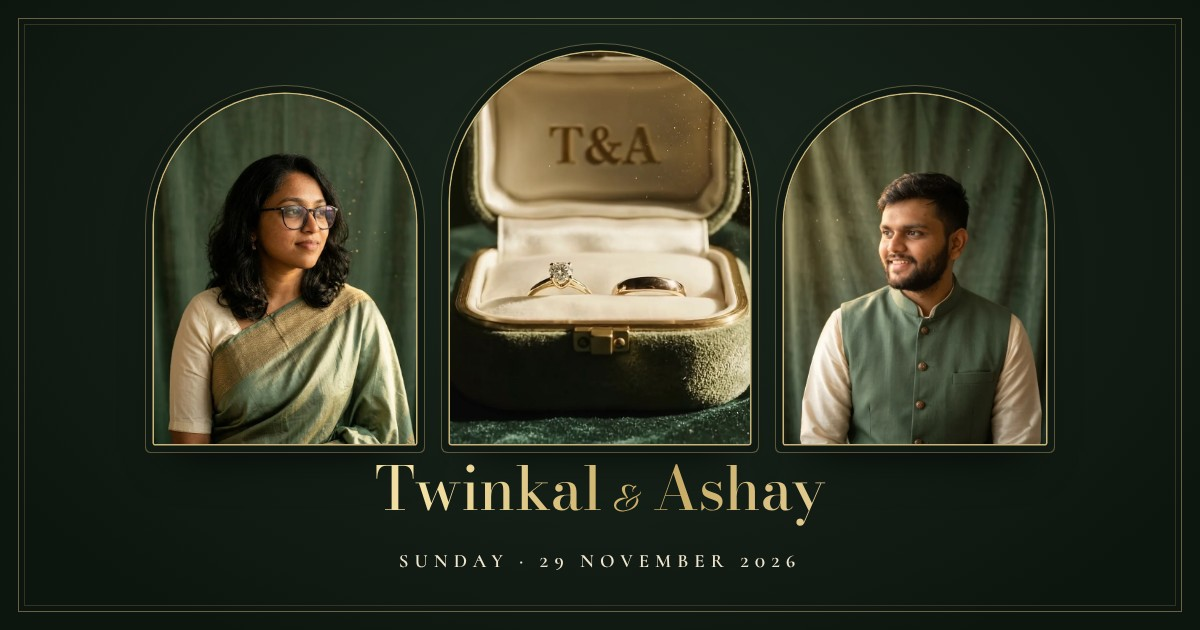
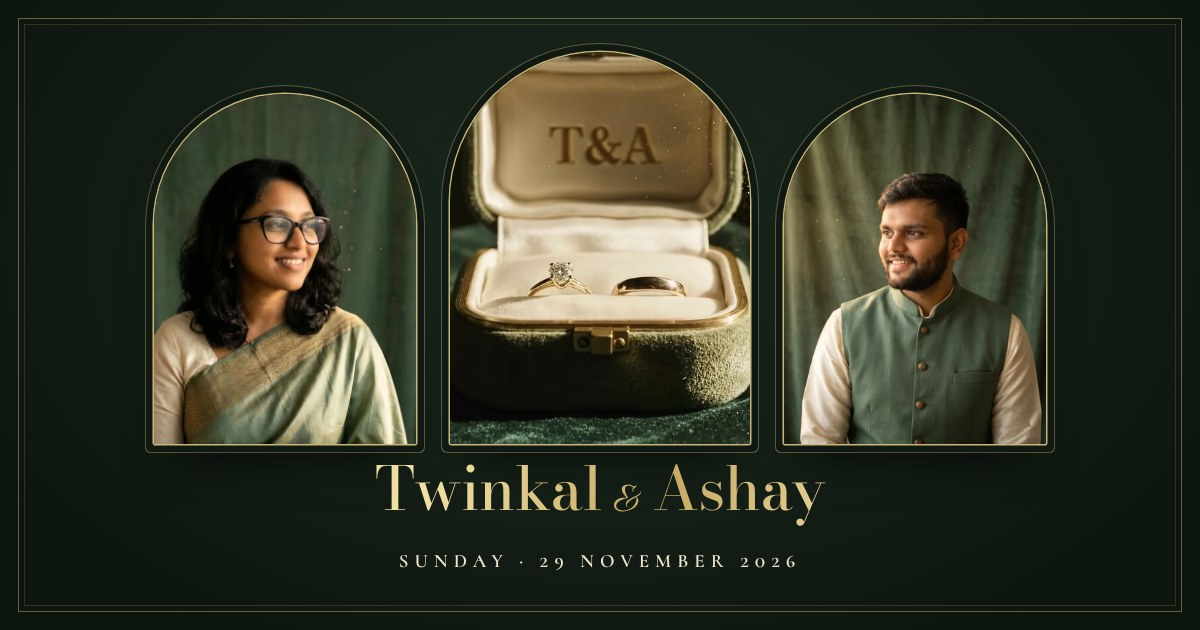
New portrait of Twinkal (smiling, sleeker frames, gentle glow) on the site, link preview and poster
Same framing as before so it still sits opposite Ashay's; the preview image URL is versioned so WhatsApp
fetches the new picture.

Claude-Session: https://claude.ai/code/session_01V483XrH9DwYK8njAU3piiR

Changed region(s): [[0.1233, 0.2413, 0.37, 0.7238]]

diff --git a/index.html b/index.html
@@ -14,15 +14,15 @@
 <meta property="og:url" content="https://twinkalashay.vercel.app/">
 <meta property="og:title" content="Twinkal & Ashay are getting engaged 💍">
 <meta property="og:description" content="Sunday, 29 November 2026 · 10:00 am · Evening Post, Naranpura, Ahmedabad · Tap to open your invitation">
-<meta property="og:image" content="https://twinkalashay.vercel.app/og-image.jpg">
+<meta property="og:image" content="https://twinkalashay.vercel.app/og-image.jpg?v=3">
 <meta property="og:image:type" content="image/jpeg">
 <meta property="og:image:width" content="1200">
 <meta property="og:image:height" content="630">
-<meta property="og:image:secure_url" content="https://twinkalashay.vercel.app/og-image.jpg">
+<meta property="og:image:secure_url" content="https://twinkalashay.vercel.app/og-image.jpg?v=3">
 <meta property="og:image:alt" content="Twinkal and Ashay in two gold arches, the open ring box with T&A between them">
 <meta property="og:site_name" content="Twinkal & Ashay">
 <meta name="twitter:card" content="summary_large_image">
-<meta name="twitter:image" content="https://twinkalashay.vercel.app/og-image.jpg">
+<meta name="twitter:image" content="https://twinkalashay.vercel.app/og-image.jpg?v=3">
 <link rel="preconnect" href="https://fonts.googleapis.com">
 <link rel="preconnect" href="https://fonts.gstatic.com" crossorigin>
 <link href="https://fonts.googleapis.com/css2?family=Allura&family=Bodoni+Moda:ital,opsz,wght@0,6..96,400;0,6..96,500;1,6..96,400&family=Cormorant+SC:wght@500;600&family=Cormorant+Garamond:ital,wght@0,400;0,500;1,400&family=Noto+Serif+Gujarati:wght@400;600&family=Playfair+Display:wght@400&display=swap" rel="stylesheet">
